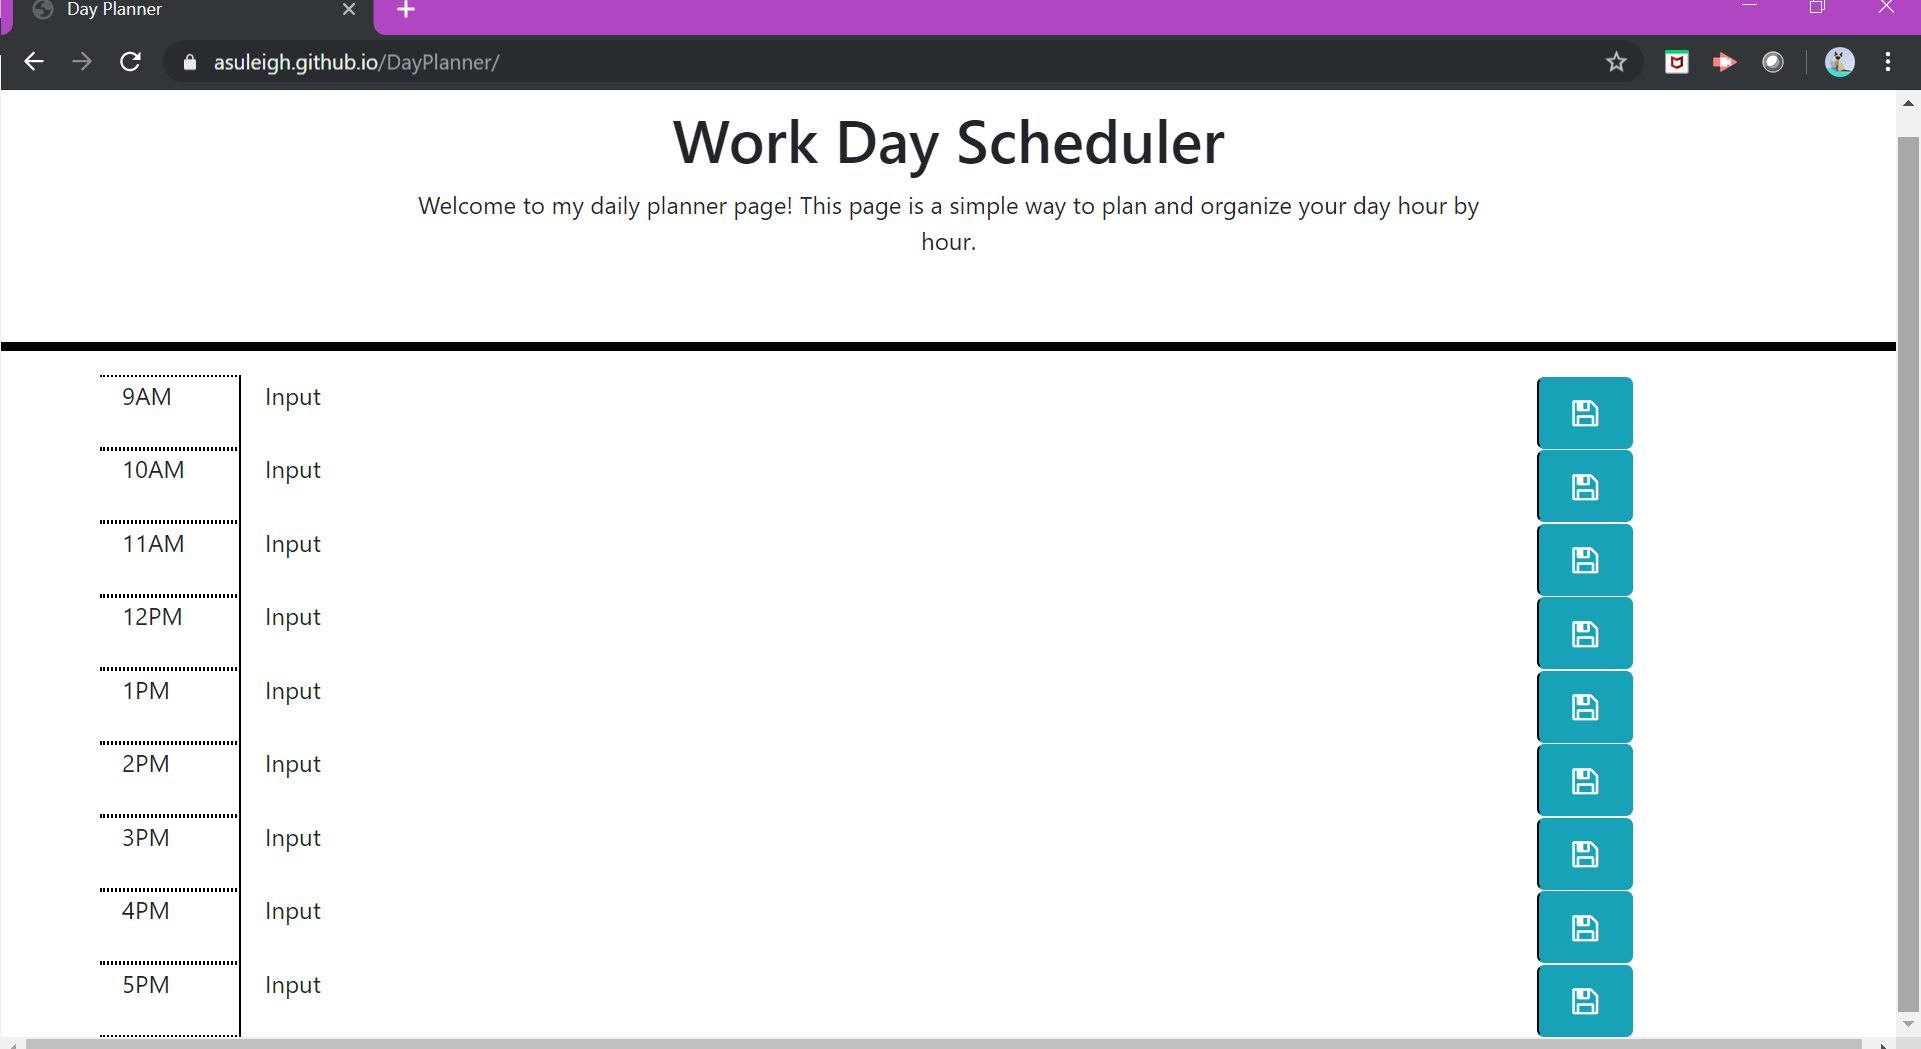
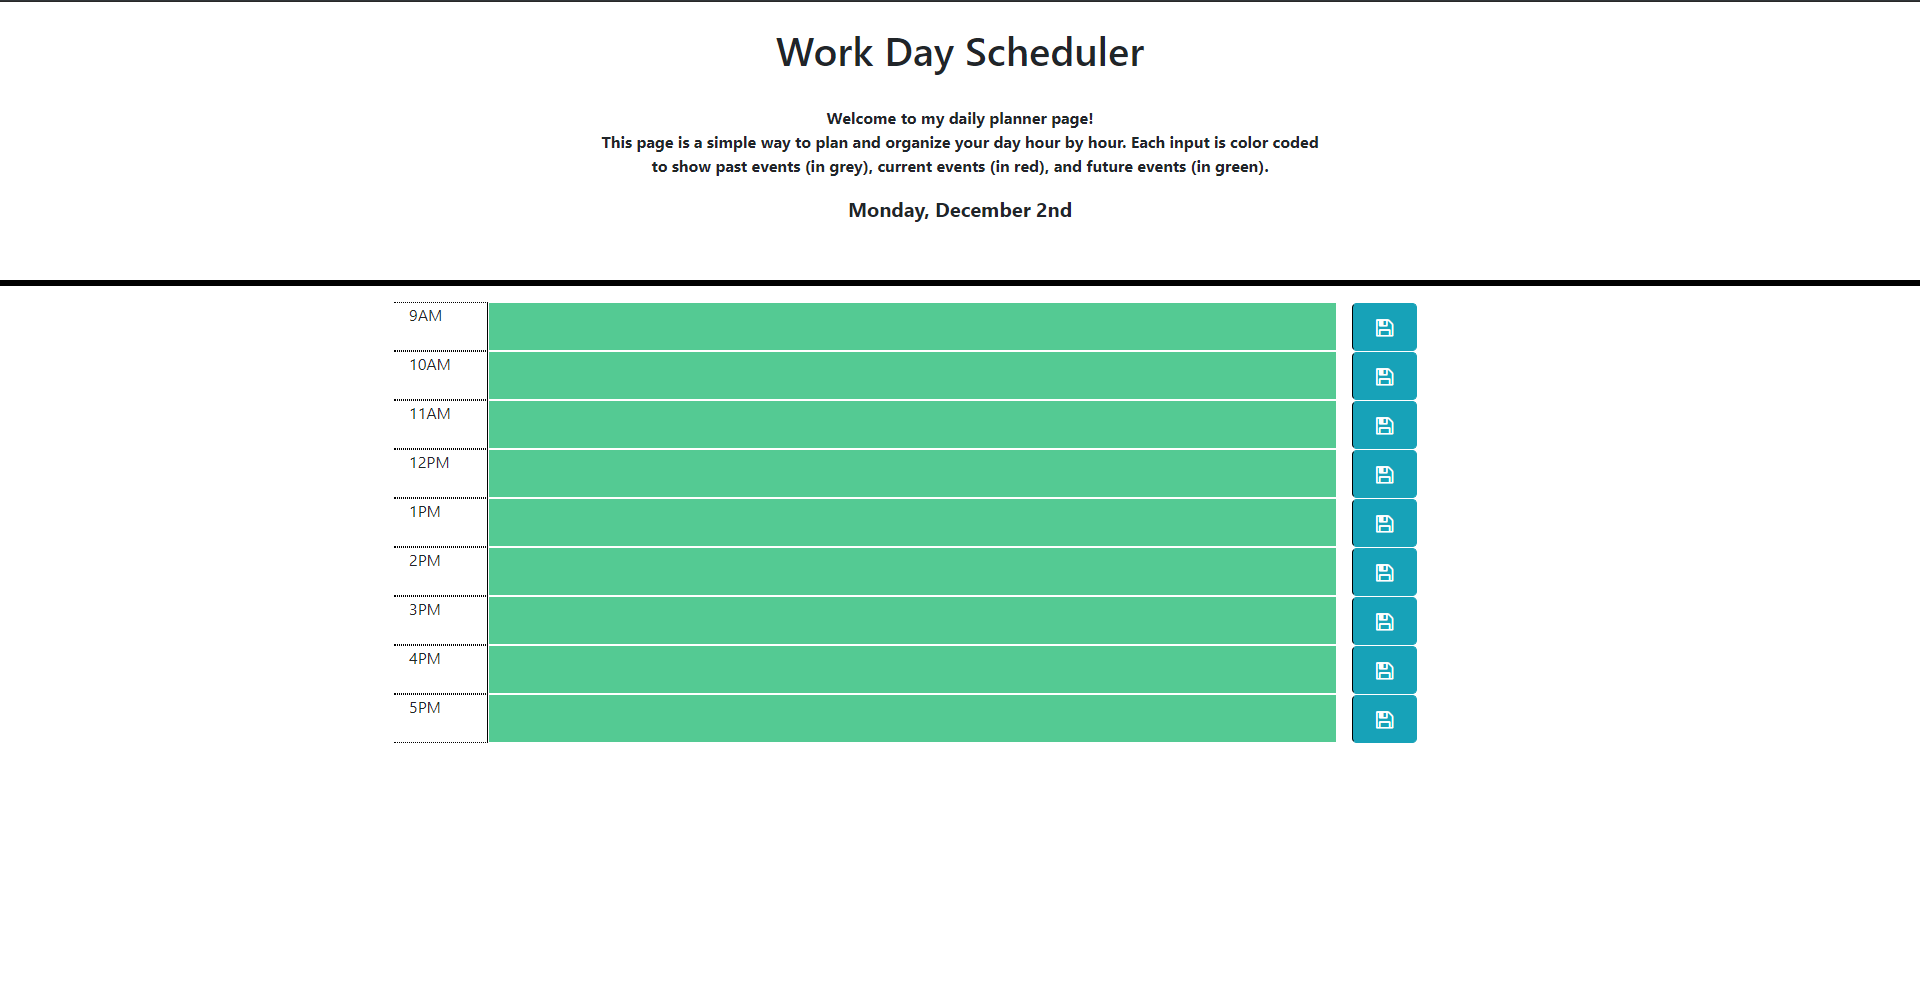
adding info for readme

diff --git a/index.html b/index.html
@@ -24,8 +24,10 @@
         <div class = "col-8 text-center">
             <h1>Work Day Scheduler</h1>
             <br>
-            <p style = "font-weight: bold;">Welcome to my daily planner page! This page is a simple way to plan and organize your day hour by hour.</p>
-            <p id = "currentDate" style = "font-weight: bold;"></p>
+            <p style = "font-weight: bold;">Welcome to my daily planner page! 
+            <br>This page is a simple way to plan and organize your day hour by hour.
+            Each input is color coded to show past events (in grey), current events (in red), and future events (in green).</p>
+            <p id = "currentDate" style = "font-weight: bold; font-size: 20px;"></p>
         </div>
         </div>
         </div>

diff --git a/README.md b/README.md
@@ -1,13 +1,14 @@
 # DayPlanner
-ABSTRACT: A project that will be helpful for daily planning and organization of tasks
+LINK: https://asuleigh.github.io/DayPlanner/
+LINK TO SCREENSHOT: Assets\images\ScreenShotForDayPlanner.png
+ABSTRACT: A project that will be helpful for daily planning and organization of tasks. This project will allow the user to input information into forms for each hour of the day from 9am-5pm and save that information so that it can be retrieved in the future. The time inputs are also color coded for past, present, and future events.
 
 TABLE OF CONTENTS:
 
 i: Installation
-ii: Screenshot Example
-iii: Usage 
-iv: Credits 
-v: License
+ii: Usage 
+iii: Credits 
+iv: License
 
 i: INSTALLATION -In order to clone or download website for functionality on local drives, be sure to install files to proper locations.
 
@@ -17,16 +18,14 @@ i: INSTALLATION -In order to clone or download website for functionality on loca
 
 -Clone or download style.css to the "css" folder, main.js available to the "js' folder, and images available to the "images" folder.
 
-ii: WHERE TO FIND SCREENSHOT EXAMPLE -After downloading, refer to screenshot in Assets/images/ScreenshotForDayPlanner
+ii: USAGE -Layout is as it appears. Time of day is portrayed on left side of page, input for the day's plans are centered, and a save button is located on the right of each hour/time input slot. The header shows the current date. User can type information into input fields and the information will be saved to localStorage. The time inputs are color coded for past (grey), present (red), and future (green) events.
 
-iii: USAGE -Layout is as it appears. Time of day is portrayed on left side of page, input for the day's plans are centered, and a save button is located on the right of each hour/time input slot. Currently, the functions are not set up. In coming updates, the header will show the current date and the hours, input, and save functions will work/update. Input will be saved to localStorage.
-
-iv: CREDITS -
+iii: CREDITS -
 -https://momentjs.com/docs/#/get-set/hour/
 -https://getbootstrap.com/; https://getbootstrap.com/docs/4.3/getting-started/introduction/
 -https://fontawesome.com/
 -https://unchar.bootcampcontent.com/The-Coding-Bootcamp/UNC-CHA-FSF-FT-10-2019-U-C/tree/master/01-Class-Content/05-Third-Party-APIs/02-Homework 
 
-v: LICENSE GNU GENERAL PUBLIC LICENSE Version 3, 29 June 2007
+iv: LICENSE GNU GENERAL PUBLIC LICENSE Version 3, 29 June 2007
 
 Copyright (C) 2007 Free Software Foundation, Inc. https://fsf.org/ Everyone is permitted to copy and distribute verbatim copies of this license document, but changing it is not allowed.
